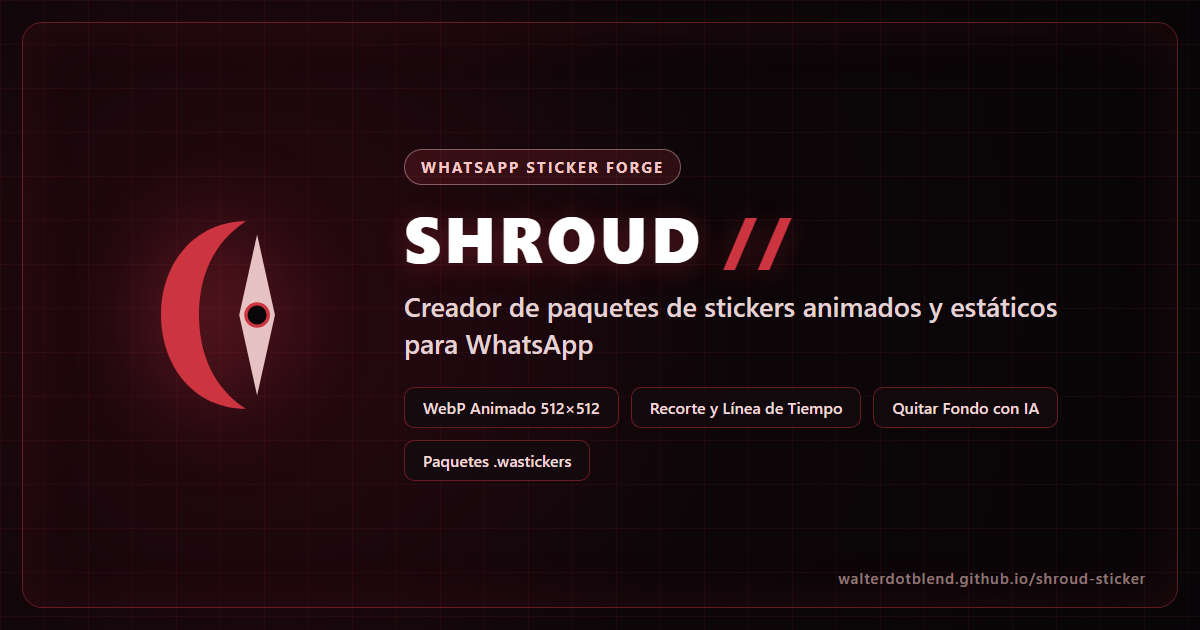
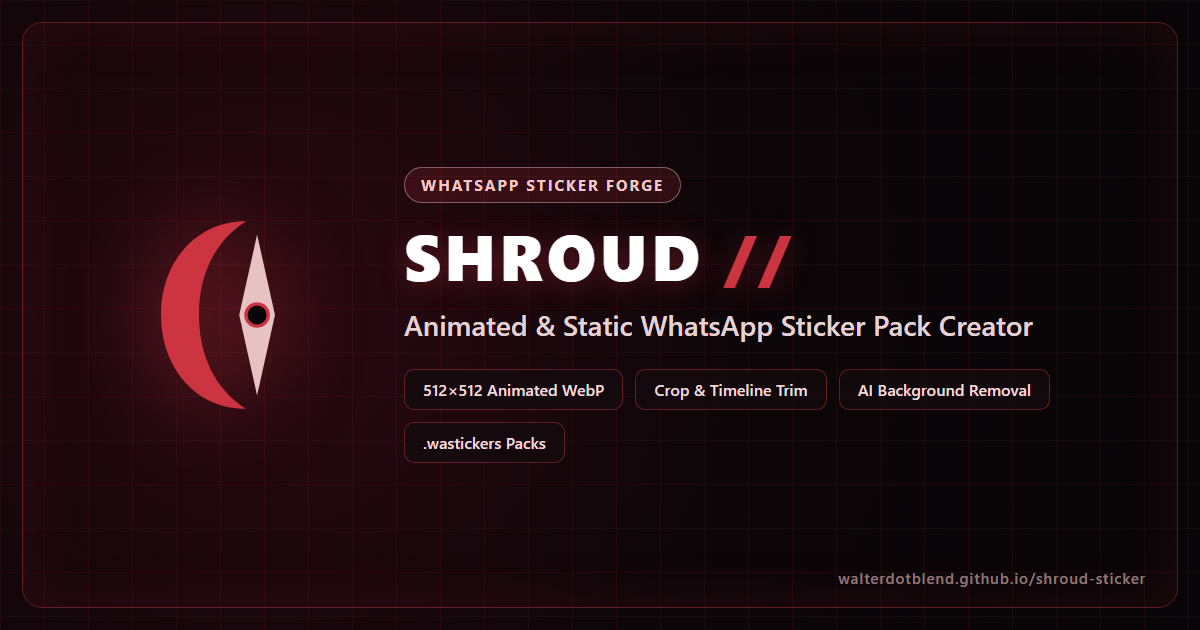
chore(i18n): default OG preview, HTML metadata & fallback errors to English

Changed region(s): [[0.3392, 0.2111, 0.8942, 0.573], [0.3392, 0.6032, 0.8633, 0.754]]

diff --git a/index.html b/index.html
@@ -1,40 +1,40 @@
 <!doctype html>
-<html lang="es">
+<html lang="en">
   <head>
     <meta charset="UTF-8" />
     <meta name="viewport" content="width=device-width, initial-scale=1.0" />
     <meta name="theme-color" content="#cc3540" />
     <meta
       name="description"
-      content="Creador gratuito de paquetes de stickers animados y estáticos para WhatsApp. Recorta videos o GIFs, quita el fondo con IA, ajusta FPS y exporta directo en .wastickers."
+      content="Free animated and static WhatsApp sticker pack creator. Crop videos or GIFs, remove backgrounds with AI, tune FPS & trim, and export directly to .wastickers."
     />
 
     <!-- Open Graph / WhatsApp / Discord / Telegram Preview -->
     <meta property="og:type" content="website" />
     <meta property="og:url" content="https://walterdotblend.github.io/shroud-sticker/" />
     <meta property="og:site_name" content="SHROUD // WhatsApp Sticker Forge" />
-    <meta property="og:title" content="SHROUD — Creador de Paquetes de Stickers Animados para WhatsApp" />
+    <meta property="og:title" content="SHROUD — Animated WhatsApp Sticker Pack Creator" />
     <meta
       property="og:description"
-      content="Crea paquetes de stickers animados (.wastickers) desde videos, GIFs o enlaces. Recorte 512×512, eliminación de fondo con IA y compresión inteligente."
+      content="Create animated WhatsApp sticker packs (.wastickers) from videos, GIFs, or links. 512×512 crop, AI background removal, and smart compression."
     />
     <meta property="og:image" content="https://walterdotblend.github.io/shroud-sticker/og-preview.png" />
     <meta property="og:image:type" content="image/png" />
     <meta property="og:image:width" content="1200" />
     <meta property="og:image:height" content="630" />
-    <meta property="og:locale" content="es_ES" />
+    <meta property="og:locale" content="en_US" />
 
     <!-- Twitter / X Card -->
     <meta name="twitter:card" content="summary_large_image" />
-    <meta name="twitter:title" content="SHROUD — Creador de Paquetes de Stickers Animados para WhatsApp" />
+    <meta name="twitter:title" content="SHROUD — Animated WhatsApp Sticker Pack Creator" />
     <meta
       name="twitter:description"
-      content="Crea paquetes de stickers animados (.wastickers) desde videos, GIFs o enlaces. Recorte 512×512, eliminación de fondo con IA y compresión inteligente."
+      content="Create animated WhatsApp sticker packs (.wastickers) from videos, GIFs, or links. 512×512 crop, AI background removal, and smart compression."
     />
     <meta name="twitter:image" content="https://walterdotblend.github.io/shroud-sticker/og-preview.png" />
 
     <link rel="icon" type="image/svg+xml" href="./logos/logo-shroud-sigil.svg" />
-    <title>SHROUD // Creador de Stickers Animados para WhatsApp</title>
+    <title>SHROUD // Animated WhatsApp Sticker Forge</title>
     <link rel="preconnect" href="https://fonts.googleapis.com" />
     <link rel="preconnect" href="https://fonts.gstatic.com" crossorigin />
     <link

diff --git a/src/engine/mediaProbe.ts b/src/engine/mediaProbe.ts
@@ -30,7 +30,7 @@ function probeImageDimensions(objectUrl: string): Promise<{ width: number; heigh
   return new Promise((resolve, reject) => {
     const img = new Image()
     img.onload = () => resolve({ width: img.naturalWidth || 512, height: img.naturalHeight || 512 })
-    img.onerror = () => reject(new Error('No se pudo leer las dimensiones del GIF/imagen.'))
+    img.onerror = () => reject(new Error('Could not read GIF/image dimensions.'))
     img.src = objectUrl
   })
 }
@@ -126,7 +126,7 @@ function probeVideoMetadata(
 
     video.onerror = () => {
       cleanup()
-      reject(new Error('No se pudo cargar el video en el navegador.'))
+      reject(new Error('Could not load video in the browser.'))
     }
     video.src = objectUrl
   })
